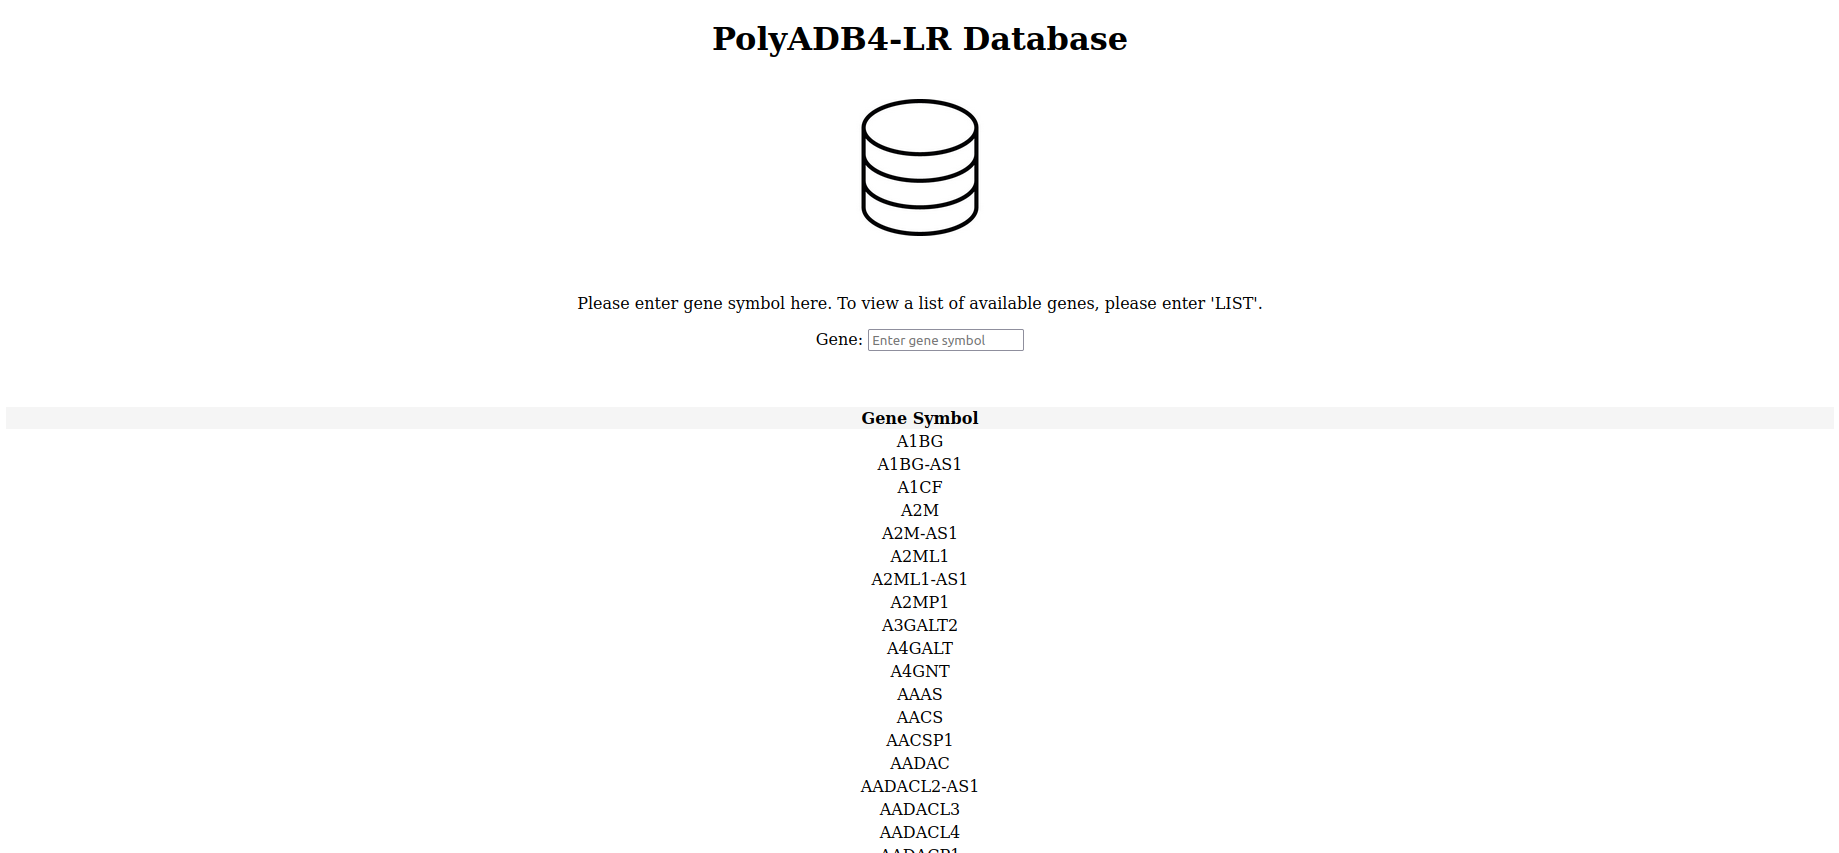
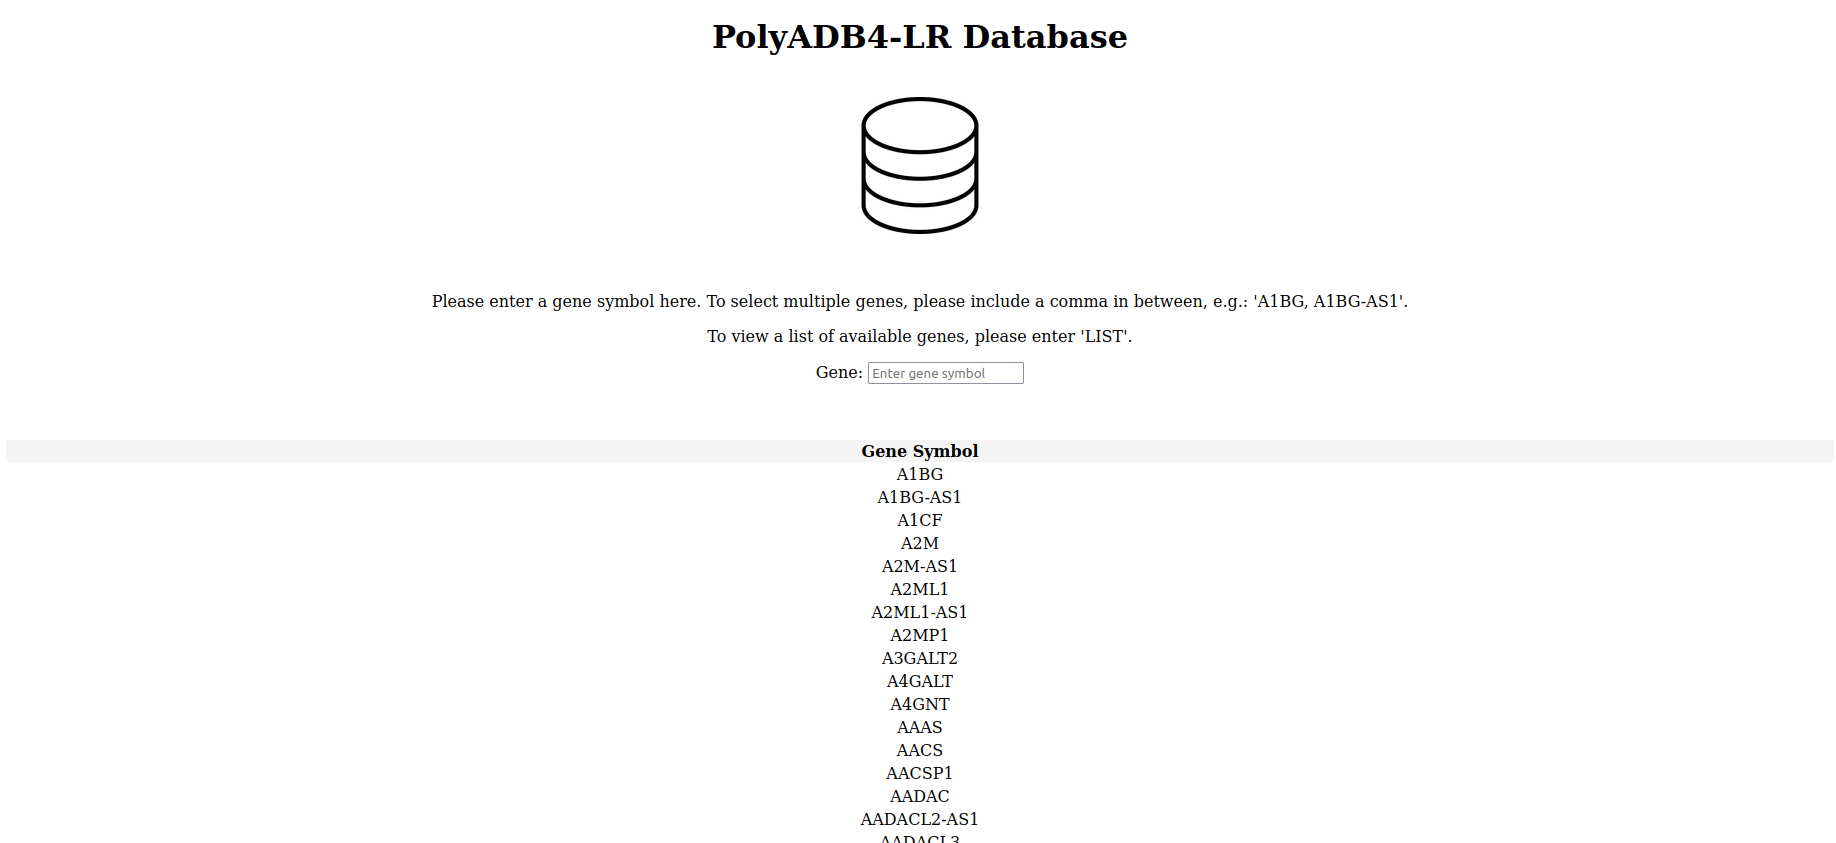
commit

Changed region(s): [[0.2173, 0.3393, 0.7761, 1.0], [0.4657, 0.1542, 0.5588, 0.2776], [0.3725, 0.0308, 0.6209, 0.0617]]

diff --git a/flask/templates/index.html b/flask/templates/index.html
@@ -11,22 +11,28 @@
 	<Center>
 	
 		<h1>  PolyADB4-LR Database  </h1> <br>
-
+		<!--<h1>   </h1>-->
 	
 	<img src='static/db.jpg' alt='db_image' width="7.5%" height="7.5%"> <br><br><br>
 	
-
+	<!--<link rel="stylesheet" type="text/css" herf= "{{ url_for('static', filename='styles/mainpage.css') }}" />-->
     <body>
 	
 		<p>
-		Please enter gene symbol here.  To view a list of available genes, please enter 'LIST'.
+		Please enter a gene symbol here.  To select multiple genes, please include a comma in between, e.g.: 'A1BG, A1BG-AS1'.
 		</p>
-	
+
+		<p>
+		To view a list of available genes, please enter 'LIST'.
+		</p>
+
 		<form action="{{ url_for('query')}}"method="POST">
 			Gene: <input type='text' name='gene' placeholder='Enter gene symbol', size='17.5' /> <br><br><br>
             <!--<input type='submit' value='Query'/> <br><br>-->
         </form>
-
+        <p>
+            <!--Your inputs are: {{enters}}-->
+        </p>
 		
 		<p>
 			{{queries}}

diff --git a/flask/run.py b/flask/run.py
@@ -9,7 +9,7 @@ import psycopg2.extras
 app = Flask(__name__)
 
 
-@app.route('/')
+@app.route('/') # Homepage
 def home():
     return render_template('index.html')
 
@@ -41,14 +41,24 @@ def query():
                 with conn.cursor(cursor_factory=psycopg2.extras.DictCursor) as cur:
 
 
-                    if genename == 'LIST':         
+                    if genename == 'LIST':
                         cur.execute(f"SELECT DISTINCT(gene_symbol) FROM {tablename} ORDER BY gene_symbol ASC")
                         data = cur.fetchall()
                         conn.commit()                  
-                    else:                                          
+                    elif "," not in genename:
+                        genename = genename.strip()
                         cur.execute(f"SELECT * FROM {tablename} WHERE gene_symbol = '{genename}' ORDER BY type_main ASC")
                         data = cur.fetchall()
                         conn.commit()
+                    else:
+                        list = [item.strip() for item in genename.split(",")]       
+                        list=tuple(list)
+                        cur.execute(f"SELECT * FROM {tablename} WHERE gene_symbol IN {list} ORDER BY gene_symbol ASC, type_main ASC")
+                        data = cur.fetchall()
+                        conn.commit()
+
+
+
 
         except Exception as error:
             print(error)
